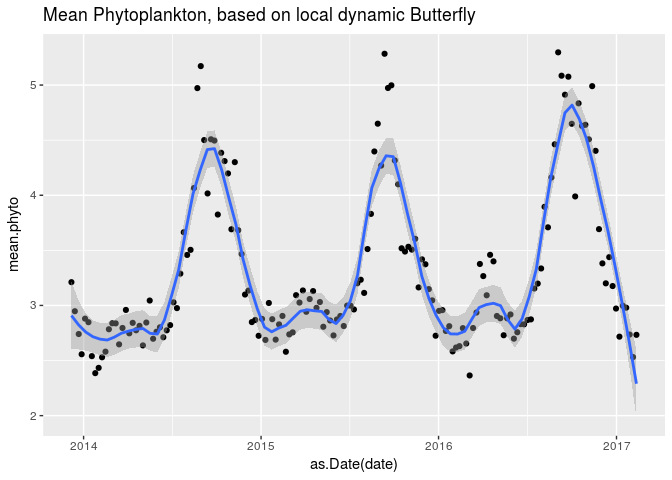
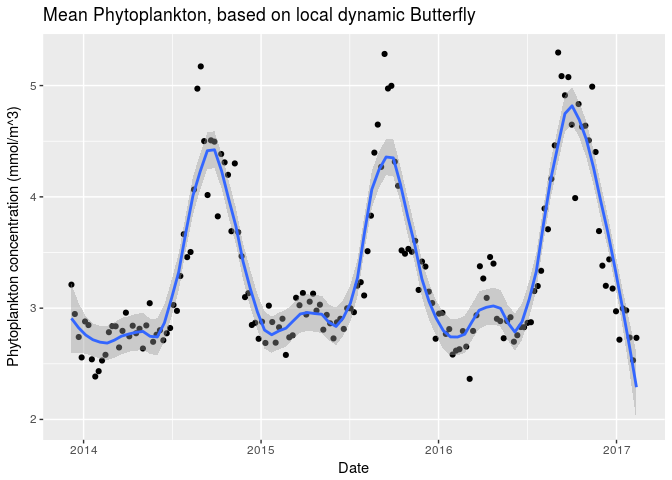
Added units to output plots

diff --git a/README.md b/README.md
@@ -300,6 +300,7 @@ Seeing "dim.time\_counter.units", we can now find the date syntax used in this f
 ``` r
 ncfile$dim$time_counter$units
 #> [1] "hours since 1950-01-01 00:00:00"
+ncdf4::nc_close( ncfile )
 ```
 
 Note that as with the currents file (both of these files came from the same data source, the European Union's "Copernicus" repository), we need to convert the times from a numeric "hourse since 1950-01-01 00:00:00":
@@ -359,7 +360,8 @@ library( ggplot2 )
 ggplot( data = dates.chlorophyll, mapping = aes( x = as.Date( date ), y = mean.chlorophyll ) ) +
     geom_point() +
     geom_smooth( method = "loess", span = 0.2 ) +
-    ggtitle( "Mean Chlorophyll concentration, based on local dynamic Butterfly" )
+    ggtitle( "Mean Chlorophyll concentration, based on local dynamic Butterfly" ) +
+    xlab( "Date" ) + ylab( "Chlorophyll concentration (mg/m^3)" )
 ```
 
 ![](READMEfigs/plotChlorophyll-1.png)
@@ -395,7 +397,8 @@ library( ggplot2 )
 ggplot( data = dates.PP, mapping = aes( x = as.Date( date ), y = mean.pp ) ) +
     geom_point() +
     geom_smooth( method = "loess", span = 0.2 ) +
-    ggtitle( "Mean Primary Production, based on local dynamic Butterfly" )
+    ggtitle( "Mean Primary Production, based on local dynamic Butterfly" ) +
+    xlab( "Date" ) + ylab( "net Primary production of Carbon (g/m^3/day)" )
 ```
 
 ![](READMEfigs/plotPrimaryProduction-1.png)
@@ -425,7 +428,8 @@ library( ggplot2 )
 ggplot( data = dates.Phyto, mapping = aes( x = as.Date( date ), y = mean.phyto ) ) +
     geom_point() +
     geom_smooth( method = "loess", span = 0.2 ) +
-    ggtitle( "Mean Phytoplankton, based on local dynamic Butterfly" )
+    ggtitle( "Mean Phytoplankton, based on local dynamic Butterfly" ) +
+    xlab( "Date" ) + ylab( "Phytoplankton concentration (mmol/m^3)" )
 ```
 
 ![](READMEfigs/plotPhytoplankton-1.png)
